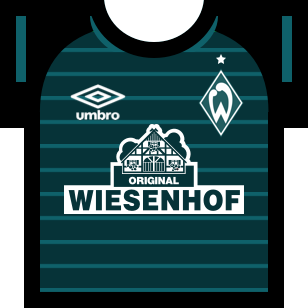
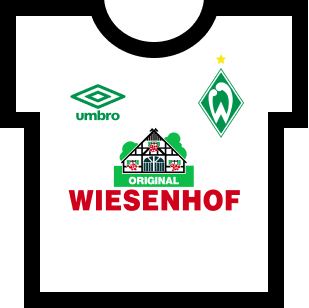
Hoffenheim kits updated to season 20

diff --git a/docs/js/main.min.js b/docs/js/main.min.js
@@ -1,1 +1,1 @@
-function dataFixture(){var e=this,a=[];e.matchesURI="https://api.football-data.org/v2/competitions/2002/matches",e.matchdayURI="https://api.football-data.org/v2/competitions",e.ajax=function(e,a,t){var n={url:e,type:a,accepts:"application/json",cache:!1,dataType:"json",data:JSON.stringify(t),headers:{"X-Auth-Token":"5c8b70988e784fca8186b93d38b1bae7"},error:function(e){console.log("ajax error "+e.status)}};return $.ajax(n)},e.ajax(e.matchdayURI,"GET").done(function(e){var t=e.competitions;for(i=0;i<t.length;i++){const n=t[i];2002==n.id&&a.push(n.currentSeason.currentMatchday)}}),e.ajax(e.matchesURI,"GET").done(function(e){var t=e.matches,n=(new Date,new Date("2018-04-24"),[]),r=a[0];for($(".js-fixture-round").text(r+". Spieltag"),i=0;i<t.length;i++){const s=t[i];s.matchday==r&&n.push(s)}for(console.log(e),i=0;i<n.length;i++){const s=n[i];fixtureItem(s)}})}function dataLadder(){var e=this;e.ajax=function(e,a,t){var n={url:e,type:a,accepts:"application/json",cache:!1,dataType:"json",data:JSON.stringify(t),headers:{"X-Auth-Token":"5c8b70988e784fca8186b93d38b1bae7"},error:function(e){console.log("ajax error "+e.status)}};return $.ajax(n)},e.tasksURI="https://api.football-data.org/v2/competitions/2002/standings",e.ajax(e.tasksURI,"GET").done(function(e){var a=e.standings[0].table;for(console.log(a),i=0;i<a.length;i++){ladderItem(a[i],i+1)}})}function data(){dataFixture(),dataLadder()}function dateTime(e){var a=new Date(e),t=a.getDate();return{day:function(e){var a=e.getDay();return 0==a?"Sonntag":1==a?"Montag":2==a?"Dienstag":3==a?"Mittwoch":4==a?"Donnerstag":5==a?"Freitag":6==a?"Samstag":void 0}(a),month:function(e){var a=e.getMonth();return 0==a?"Jan":1==a?"Feb":2==a?"Mär":3==a?"Apr":4==a?"Mai":5==a?"Jun":6==a?"Jul":7==a?"Aug":8==a?"Sep":9==a?"Okt":10==a?"Nov":11==a?"Dez":void 0}(a),date:t,time:function(e){return e.getHours()+":"+("0"+e.getMinutes()).slice(-2)}(a)}}function fixtureItem(e){var a=dateTime(e.utcDate),t=e.status;"IN_PLAY"==t?$(".js-fixture").before('<div class="c-fixture__game c-fixture__game--in-progress"><div class= "c-fixture__date c-date" ><span class="c-date__day">'+a.day+'</span><span class="c-date__month">'+a.month+'</span><span class="c-date__date">'+a.date+'</span><span class="c-date__time">LIVE</span></div ><div class="c-fixture__team js-fixture-team-1"><img class="js-team-img" src="'+kitImg(e.homeTeam.name,e.awayTeam.name,"Home")+'" /><span class="js-team-text">'+teamAbrev(e.homeTeam.name)[0].name+'</span><span class="c-fixture__score js-score-text">'+e.score.fullTime.homeTeam+'</span></div><div class="c-fixture__vs">vs</div><div class="c-fixture__team js-fixture-team-2"><img class="js-team-img" src="'+kitImg(e.homeTeam.name,e.awayTeam.name,"Away")+'" /><span class="js-team-text">'+teamAbrev(e.awayTeam.name)[0].name+'</span><span class="c-fixture__score js-score-text">'+e.score.fullTime.awayTeam+'</span></div><div class="c-fixture__venue js-fixture-venue"></div></div>'):"PAUSED"==t?$(".js-fixture").before('<div class="c-fixture__game c-fixture__game--in-progress"><div class= "c-fixture__date c-date" ><span class="c-date__day">'+a.day+'</span><span class="c-date__month">'+a.month+'</span><span class="c-date__date">'+a.date+'</span><span class="c-date__time">HT</span></div ><div class="c-fixture__team js-fixture-team-1"><img class="js-team-img" src="'+kitImg(e.homeTeam.name,e.awayTeam.name,"Home")+'" /><span class="js-team-text">'+teamAbrev(e.homeTeam.name)[0].name+'</span><span class="c-fixture__score js-score-text">'+e.score.fullTime.homeTeam+'</span></div><div class="c-fixture__vs">vs</div><div class="c-fixture__team js-fixture-team-2"><img class="js-team-img" src="'+kitImg(e.homeTeam.name,e.awayTeam.name,"Away")+'" /><span class="js-team-text">'+teamAbrev(e.awayTeam.name)[0].name+'</span><span class="c-fixture__score js-score-text">'+e.score.fullTime.awayTeam+'</span></div><div class="c-fixture__venue js-fixture-venue"></div></div>'):"FINISHED"==t?$(".js-fixture").before('<div class="c-fixture__game c-fixture__game--completed"><div class= "c-fixture__date c-date" ><span class="c-date__day">'+a.day+'</span><span class="c-date__month">'+a.month+'</span><span class="c-date__date">'+a.date+'</span><span class="c-date__time">FT</span></div ><div class="c-fixture__team js-fixture-team-1"><img class="js-team-img" src="'+kitImg(e.homeTeam.name,e.awayTeam.name,"Home")+'" /><span class="js-team-text">'+teamAbrev(e.homeTeam.name)[0].name+'</span><span class="c-fixture__score js-score-text">'+e.score.fullTime.homeTeam+'</span></div><div class="c-fixture__vs">vs</div><div class="c-fixture__team js-fixture-team-2"><img class="js-team-img" src="'+kitImg(e.homeTeam.name,e.awayTeam.name,"Away")+'" /><span class="js-team-text">'+teamAbrev(e.awayTeam.name)[0].name+'</span><span class="c-fixture__score js-score-text">'+e.score.fullTime.awayTeam+'</span></div><div class="c-fixture__venue js-fixture-venue"></div></div>'):$(".js-fixture").before('<div class="c-fixture__game"><div class= "c-fixture__date c-date" ><span class="c-date__day">'+a.day+'</span><span class="c-date__month">'+a.month+'</span><span class="c-date__date">'+a.date+'</span><span class="c-date__time">'+a.time+'</span></div ><div class="c-fixture__team js-fixture-team-1"><img class="js-team-img" src="'+kitImg(e.homeTeam.name,e.awayTeam.name,"Home")+'" /><span class="js-team-text">'+teamAbrev(e.homeTeam.name)[0].name+'</span><span class="c-fixture__score js-score-text">-</span></div><div class="c-fixture__vs">vs</div><div class="c-fixture__team js-fixture-team-2"><img class="js-team-img" src="'+kitImg(e.homeTeam.name,e.awayTeam.name,"Away")+'" /><span class="js-team-text">'+teamAbrev(e.awayTeam.name)[0].name+'</span><span class="c-fixture__score js-score-text">-</span></div><div class="c-fixture__venue js-fixture-venue"></div></div>')}function kitImg(e,a,t){if("Home"==t){if("1. FC Nürnberg"==e)return"img/teams/Nuernberg/Home.png";if("1. FSV Mainz 05"==e)return"img/teams/Mainz/Home.png";if("Bayer 04 Leverkusen"==e)return"img/teams/Leverkusen/Home.png";if("BV Borussia 09 Dortmund"==e)return"img/teams/Dortmund/Home.png";if("Borussia Mönchengladbach"==e)return"img/teams/Gladbach/Home.png";if("Eintracht Frankfurt"==e)return"img/teams/Frankfurt/Home.png";if("FC Augsburg"==e)return"img/teams/Augsburg/Home.png";if("FC Bayern München"==e)return"img/teams/Bayern/Home.png";if("FC Schalke 04"==e)return"img/teams/Schalke/Home.png";if("TSV Fortuna 95 Düsseldorf"==e)return"img/teams/Duesseldorf/Home.png";if("Hannover 96"==e)return"img/teams/Hannover/Home.png";if("Hertha BSC"==e)return"img/teams/Hertha/Home.png";if("RB Leipzig"==e)return"img/teams/Leipzig/Home.png";if("SC Freiburg"==e)return"img/teams/Freiburg/Home.png";if("TSG 1899 Hoffenheim"==e)return"img/teams/Hoffenheim/Home.png";if("VfB Stuttgart"==e)return"img/teams/Stuttgart/Home.png";if("VfL Wolfsburg"==e)return"img/teams/Wolfsburg/Home.png";if("SV Werder Bremen"==e)return"img/teams/Bremen/Home.png";if("SC Paderborn 07"==e)return"img/teams/Paderborn/Home.png";if("1. FC Köln"==e)return"img/teams/Koeln/Home.png";if("1. FC Union Berlin"==e)return"img/teams/Union/Home.png"}else if("Away"==t){if("1. FC Nürnberg"==a)return"VfB Stuttgart"==e||"Borussia Mönchengladbach"==e||"FC Augsburg"==e||"RB Leipzig"==e?"img/teams/Nuernberg/Home.png":"img/teams/Nuernberg/Away.png";if("1. FSV Mainz 05"==a)return"FC Schalke 04"==e||"Hertha BSC"==e||"TSG 1899 Hoffenheim"==e?"img/teams/Mainz/Third.png":"img/teams/Mainz/Away.png";if("Bayer 04 Leverkusen"==a)return"VfB Stuttgart"==e||"Borussia Mönchengladbach"==e||"FC Augsburg"==e||"RB Leipzig"==e?"img/teams/Leverkusen/Third.png":"img/teams/Leverkusen/Away.png";if("BV Borussia 09 Dortmund"==a)return"Eintracht Frankfurt"==e||"Bayer Leverkusen"==e?"img/teams/Dortmund/Home.png":"img/teams/Dortmund/Away.png";if("Borussia Mönchengladbach"==a)return"FC Schalke 04"==e||"Hertha BSC"==e||"TSG 1899 Hoffenheim"==e?"img/teams/Gladbach/Home.png":"img/teams/Gladbach/Away.png";if("Eintracht Frankfurt"==a)return"VfB Stuttgart"==e||"Borussia Mönchengladbach"==e||"FC Augsburg"==e||"RB Leipzig"==e?"img/teams/Frankfurt/Third.png":"img/teams/Frankfurt/Away.png";if("FC Augsburg"==a)return"SV Werder Bremen"==e||"VfL Wolfsburg"==e?"img/teams/Augsburg/Third.png":"img/teams/Augsburg/Away.png";if("FC Bayern München"==a)return"VfB Stuttgart"==e||"Borussia Mönchengladbach"==e||"FC Augsburg"==e||"RB Leipzig"==e?"img/teams/Bayern/Home.png":"img/teams/Bayern/Away.png";if("FC Schalke 04"==a)return"VfB Stuttgart"==e||"Borussia Mönchengladbach"==e||"FC Augsburg"==e||"RB Leipzig"==e?"img/teams/Schalke/Home.png":"img/teams/Schalke/Away.png";if("TSV Fortuna 95 Düsseldorf"==a)return"SC Freiburg"==e||"FC Bayern München"==e||"1. FC Nürnberg"==e||"1. FSV Mainz 05"==e||"Hannover 96"==e||"TSV Fortuna 95 Düsseldorf"==e||"1. FC Union Berlin"==e?"img/teams/Duesseldorf/Third.png":"img/teams/Duesseldorf/Away.png";if("Hannover 96"==a)return"Eintracht Frankfurt"==e||"Bayer Leverkusen"==e?"img/teams/Hannover/Third.png":"img/teams/Hannover/Away.png";if("Hertha BSC"==a)return"Eintracht Frankfurt"==e||"Bayer 04 Leverkusen"==e||"SC Freiburg"==e||"FC Bayern München"==e||"1. FC Nürnberg"==e||"1. FSV Mainz 05"==e||"Hannover 96"==e||"TSV Fortuna 95 Düsseldorf"==e||"1. FC Union Berlin"==e?"img/teams/Hertha/Home.png":"img/teams/Hertha/Away.png";if("RB Leipzig"==a)return"Eintracht Frankfurt"==e||"Bayer 04 Leverkusen"==e||"FC Schalke 04"==e||"Hertha BSC"==e||"TSG 1899 Hoffenheim"==e?"img/teams/Leipzig/Home.png":"img/teams/Leipzig/Away.png";if("SC Freiburg"==a)return"Eintracht Frankfurt"==e||"Bayer 04 Leverkusen"==e?"img/teams/Freiburg/Third.png":"img/teams/Freiburg/Away.png";if("TSG 1899 Hoffenheim"==a)return"VfB Stuttgart"==e||"Borussia Mönchengladbach"==e||"FC Augsburg"==e||"RB Leipzig"==e?"img/teams/Hoffenheim/Third.png":"img/teams/Hoffenheim/Away.png";if("VfB Stuttgart"==a)return"SC Freiburg"==e||"FC Bayern München"==e||"1. FC Nürnberg"==e||"1. FSV Mainz 05"==e||"Hannover 96"==e||"TSV Fortuna 95 Düsseldorf"==e?"img/teams/Stuttgart/Third.png":"img/teams/Stuttgart/Away.png";if("VfL Wolfsburg"==a)return"VfB Stuttgart"==e||"Borussia Mönchengladbach"==e||"FC Augsburg"==e||"RB Leipzig"==e?"img/teams/Wolfsburg/Third.png":"img/teams/Wolfsburg/Away.png";if("SV Werder Bremen"==a)return"Eintracht Frankfurt"==e||"Bayer Leverkusen"==e?"img/teams/Bremen/Third.png":"img/teams/Bremen/Away.png";if("SC Paderborn 07"==a)return"VfB Stuttgart"==e||"Borussia Mönchengladbach"==e||"FC Augsburg"==e||"RB Leipzig"==e?"img/teams/Paderborn/Third.png":"img/teams/Paderborn/Away.png";if("1. FC Köln"==a)return"SC Freiburg"==e||"FC Bayern München"==e||"1. FC Nürnberg"==e||"1. FSV Mainz 05"==e||"Hannover 96"==e||"TSV Fortuna 95 Düsseldorf"==e||"1. FC Union Berlin"==e?"img/teams/Koeln/Third.png":"img/teams/Koeln/Away.png";if("1. FC Union Berlin"==a)return"VfB Stuttgart"==e||"Borussia Mönchengladbach"==e||"FC Augsburg"==e||"RB Leipzig"==e?"img/teams/Union/Third.png":"img/teams/Union/Away.png"}}function ladderItem(e,a){$(".c-ladder__item-"+a+" div.c-ladder__team").children("span").text(teamAbrev(e.team.name)[0].name),$(".c-ladder__item-"+a+" div.c-ladder__team").children("img").attr("src",teamImg(e.team.name)),$(".c-ladder__item-"+a+" div.c-ladder__played").text(e.playedGames),$(".c-ladder__item-"+a+" div.c-ladder__wins").text(e.won),$(".c-ladder__item-"+a+" div.c-ladder__losses").text(e.lost),$(".c-ladder__item-"+a+" div.c-ladder__draws").text(e.draw),$(".c-ladder__item-"+a+" div.c-ladder__points-for").text(e.goalsFor),$(".c-ladder__item-"+a+" div.c-ladder__points-against").text(e.goalsAgainst),$(".c-ladder__item-"+a+" div.c-ladder__percentage").text(e.goalDifference),$(".c-ladder__item-"+a+" div.c-ladder__points").text(e.points)}function roundCalc(e){var a=new Date(e),t=a.getMonth(),n=a.getDate(),r=a.getFullYear();return"2018"==r&&t<=7&&n<=27?1:"2018"==r&&7==t&&n<=31||"2018"==r&&8==t&&2==n?2:"2018"==r&&8==t&&n<=16?3:"2018"==r&&8==t&&n<=23?4:"2018"==r&&8==t&&n<=26?5:"2018"==r&&8==t&&n<=30?6:"2018"==r&&9==t&&n<=7?7:"2018"==r&&9==t&&n<=21?8:"2018"==r&&9==t&&n<=28?9:"2018"==r&&9==t&&n<=31||"2018"==r&&10==t&&n<=4?10:"2018"==r&&10==t&&n<=11?11:"2018"==r&&10==t&&n<=25?12:"2018"==r&&10==t&&n<=31||"2018"==r&&11==t&&n<=3?13:"2018"==r&&11==t&&n<=9?14:"2018"==r&&11==t&&n<=16?15:"2018"==r&&11==t&&n<=19?16:"2018"==r&&11==t&&n<=23?17:"2019"==r&&0==t&&n<=20?18:"2019"==r&&0==t&&n<=27?19:"2019"==r&&0==t&&n<=31||"2019"==r&&1==t&&n<=3?20:"2019"==r&&1==t&&n<=10?21:"2019"==r&&1==t&&n<=18?22:"2019"==r&&1==t&&n<=25?23:"2019"==r&&1==t&&n<=25?24:"2019"==r&&1==t&&n<=31||"2019"==r&&1==t?25:"2019"==r&&2==t&&n<=11?26:void 0}function teamAbrev(e){var a=e;return"Eintracht Frankfurt"==a?[{code:"SGE",name:"Frankfurt"}]:"BV Borussia 09 Dortmund"==a?[{code:"BVB",name:"Dortmund"}]:"VfB Stuttgart"==a?[{code:"STU",name:"Stuttgart"}]:"FC Schalke 04"==a?[{code:"S04",name:"Schalke"}]:"1. FC Nürnberg"==a?[{code:"FCN",name:"Nürnberg"}]:"SV Werder Bremen"==a?[{code:"SVW",name:"Bremen"}]:"Hertha BSC"==a?[{code:"BSC",name:"Berlin"}]:"Hannover 96"==a?[{code:"HAN",name:"Hannover"}]:"Borussia Mönchengladbach"==a?[{code:"BMG",name:"Gladbach"}]:"FC Bayern München"==a?[{code:"MUN",name:"Bayern"}]:"TSV Fortuna 95 Düsseldorf"==a?[{code:"DUS",name:"Düsseldorf"}]:"Bayer 04 Leverkusen"==a?[{code:"B04",name:"Leverkusen"}]:"SC Freiburg"==a?[{code:"SCF",name:"Freiburg"}]:"VfL Wolfsburg"==a?[{code:"WOB",name:"Wolfsburg"}]:"1. FSV Mainz 05"==a?[{code:"MAI",name:"Mainz"}]:"TSG 1899 Hoffenheim"==a?[{code:"TSG",name:"Hoffenheim"}]:"FC Augsburg"==a?[{code:"AUG",name:"Augsburg"}]:"RB Leipzig"==a?[{code:"RBL",name:"Leipzig"}]:"SC Paderborn 07"==a?[{code:"PAD",name:"Paderborn"}]:"1. FC Köln"==a?[{code:"KLN",name:"Köln"}]:"1. FC Union Berlin"==a?[{code:"UNB",name:"Union"}]:void 0}function teamImg(e){return"1. FC Nürnberg"==e?"img/teams/Nuernberg/Logo.png":"1. FSV Mainz 05"==e?"img/teams/Mainz/Logo.png":"Bayer 04 Leverkusen"==e?"img/teams/Leverkusen/Logo.png":"BV Borussia 09 Dortmund"==e?"img/teams/Dortmund/Logo.png":"Borussia Mönchengladbach"==e?"img/teams/Gladbach/Logo.png":"Eintracht Frankfurt"==e?"img/teams/Frankfurt/Logo.png":"FC Augsburg"==e?"img/teams/Augsburg/Logo.png":"FC Bayern München"==e?"img/teams/Bayern/Logo.png":"FC Schalke 04"==e?"img/teams/Schalke/Logo.png":"TSV Fortuna 95 Düsseldorf"==e?"img/teams/Duesseldorf/Logo.png":"Hannover 96"==e?"img/teams/Hannover/Logo.png":"Hertha BSC"==e?"img/teams/Hertha/Logo.png":"RB Leipzig"==e?"img/teams/Leipzig/Logo.png":"SC Freiburg"==e?"img/teams/Freiburg/Logo.png":"TSG 1899 Hoffenheim"==e?"img/teams/Hoffenheim/Logo.png":"VfB Stuttgart"==e?"img/teams/Stuttgart/Logo.png":"VfL Wolfsburg"==e?"img/teams/Wolfsburg/Logo.png":"SV Werder Bremen"==e?"img/teams/Bremen/Logo.png":"SC Paderborn 07"==e?"img/teams/Paderborn/Logo.png":"1. FC Köln"==e?"img/teams/Koeln/Logo.png":"1. FC Union Berlin"==e?"img/teams/Union/Logo.png":void 0}function vertCenter(e,a){var t=e.parent().height();e.css({height:t+"px","line-height":t+"px"}),e.children(a).css({height:e.children(a).height(),"padding-top":(t-e.children(a).height())/2+"px","padding-bottom":(t-e.children(a).height())/2+"px"})}function clearStyles(e,a){e.attr("style",""),a.attr("style","")}data(),$(window).on("resize",function(){});
+function dataFixture(){var e=this,a=[];e.matchesURI="https://api.football-data.org/v2/competitions/2002/matches",e.matchdayURI="https://api.football-data.org/v2/competitions",e.ajax=function(e,a,t){var n={url:e,type:a,accepts:"application/json",cache:!1,dataType:"json",data:JSON.stringify(t),headers:{"X-Auth-Token":"5c8b70988e784fca8186b93d38b1bae7"},error:function(e){console.log("ajax error "+e.status)}};return $.ajax(n)},e.ajax(e.matchdayURI,"GET").done(function(e){var t=e.competitions;for(i=0;i<t.length;i++){const n=t[i];2002==n.id&&a.push(n.currentSeason.currentMatchday)}}),e.ajax(e.matchesURI,"GET").done(function(e){var t=e.matches,n=(new Date,new Date("2018-04-24"),[]),r=a[0];for($(".js-fixture-round").text(r+". Spieltag"),i=0;i<t.length;i++){const s=t[i];s.matchday==r&&n.push(s)}for(console.log(e),i=0;i<n.length;i++){const s=n[i];fixtureItem(s)}})}function dataLadder(){var e=this;e.ajax=function(e,a,t){var n={url:e,type:a,accepts:"application/json",cache:!1,dataType:"json",data:JSON.stringify(t),headers:{"X-Auth-Token":"5c8b70988e784fca8186b93d38b1bae7"},error:function(e){console.log("ajax error "+e.status)}};return $.ajax(n)},e.tasksURI="https://api.football-data.org/v2/competitions/2002/standings",e.ajax(e.tasksURI,"GET").done(function(e){var a=e.standings[0].table;for(console.log(a),i=0;i<a.length;i++){ladderItem(a[i],i+1)}})}function data(){dataFixture(),dataLadder()}function dateTime(e){var a=new Date(e),t=a.getDate();return{day:function(e){var a=e.getDay();return 0==a?"Sonntag":1==a?"Montag":2==a?"Dienstag":3==a?"Mittwoch":4==a?"Donnerstag":5==a?"Freitag":6==a?"Samstag":void 0}(a),month:function(e){var a=e.getMonth();return 0==a?"Jan":1==a?"Feb":2==a?"Mär":3==a?"Apr":4==a?"Mai":5==a?"Jun":6==a?"Jul":7==a?"Aug":8==a?"Sep":9==a?"Okt":10==a?"Nov":11==a?"Dez":void 0}(a),date:t,time:function(e){return e.getHours()+":"+("0"+e.getMinutes()).slice(-2)}(a)}}function fixtureItem(e){var a=dateTime(e.utcDate),t=e.status;"IN_PLAY"==t?$(".js-fixture").before('<div class="c-fixture__game c-fixture__game--in-progress"><div class= "c-fixture__date c-date" ><span class="c-date__day">'+a.day+'</span><span class="c-date__month">'+a.month+'</span><span class="c-date__date">'+a.date+'</span><span class="c-date__time">LIVE</span></div ><div class="c-fixture__team js-fixture-team-1"><img class="js-team-img" src="'+kitImg(e.homeTeam.name,e.awayTeam.name,"Home")+'" /><span class="js-team-text">'+teamAbrev(e.homeTeam.name)[0].name+'</span><span class="c-fixture__score js-score-text">'+e.score.fullTime.homeTeam+'</span></div><div class="c-fixture__vs">vs</div><div class="c-fixture__team js-fixture-team-2"><img class="js-team-img" src="'+kitImg(e.homeTeam.name,e.awayTeam.name,"Away")+'" /><span class="js-team-text">'+teamAbrev(e.awayTeam.name)[0].name+'</span><span class="c-fixture__score js-score-text">'+e.score.fullTime.awayTeam+'</span></div><div class="c-fixture__venue js-fixture-venue"></div></div>'):"PAUSED"==t?$(".js-fixture").before('<div class="c-fixture__game c-fixture__game--in-progress"><div class= "c-fixture__date c-date" ><span class="c-date__day">'+a.day+'</span><span class="c-date__month">'+a.month+'</span><span class="c-date__date">'+a.date+'</span><span class="c-date__time">HT</span></div ><div class="c-fixture__team js-fixture-team-1"><img class="js-team-img" src="'+kitImg(e.homeTeam.name,e.awayTeam.name,"Home")+'" /><span class="js-team-text">'+teamAbrev(e.homeTeam.name)[0].name+'</span><span class="c-fixture__score js-score-text">'+e.score.fullTime.homeTeam+'</span></div><div class="c-fixture__vs">vs</div><div class="c-fixture__team js-fixture-team-2"><img class="js-team-img" src="'+kitImg(e.homeTeam.name,e.awayTeam.name,"Away")+'" /><span class="js-team-text">'+teamAbrev(e.awayTeam.name)[0].name+'</span><span class="c-fixture__score js-score-text">'+e.score.fullTime.awayTeam+'</span></div><div class="c-fixture__venue js-fixture-venue"></div></div>'):"FINISHED"==t?$(".js-fixture").before('<div class="c-fixture__game c-fixture__game--completed"><div class= "c-fixture__date c-date" ><span class="c-date__day">'+a.day+'</span><span class="c-date__month">'+a.month+'</span><span class="c-date__date">'+a.date+'</span><span class="c-date__time">FT</span></div ><div class="c-fixture__team js-fixture-team-1"><img class="js-team-img" src="'+kitImg(e.homeTeam.name,e.awayTeam.name,"Home")+'" /><span class="js-team-text">'+teamAbrev(e.homeTeam.name)[0].name+'</span><span class="c-fixture__score js-score-text">'+e.score.fullTime.homeTeam+'</span></div><div class="c-fixture__vs">vs</div><div class="c-fixture__team js-fixture-team-2"><img class="js-team-img" src="'+kitImg(e.homeTeam.name,e.awayTeam.name,"Away")+'" /><span class="js-team-text">'+teamAbrev(e.awayTeam.name)[0].name+'</span><span class="c-fixture__score js-score-text">'+e.score.fullTime.awayTeam+'</span></div><div class="c-fixture__venue js-fixture-venue"></div></div>'):$(".js-fixture").before('<div class="c-fixture__game"><div class= "c-fixture__date c-date" ><span class="c-date__day">'+a.day+'</span><span class="c-date__month">'+a.month+'</span><span class="c-date__date">'+a.date+'</span><span class="c-date__time">'+a.time+'</span></div ><div class="c-fixture__team js-fixture-team-1"><img class="js-team-img" src="'+kitImg(e.homeTeam.name,e.awayTeam.name,"Home")+'" /><span class="js-team-text">'+teamAbrev(e.homeTeam.name)[0].name+'</span><span class="c-fixture__score js-score-text">-</span></div><div class="c-fixture__vs">vs</div><div class="c-fixture__team js-fixture-team-2"><img class="js-team-img" src="'+kitImg(e.homeTeam.name,e.awayTeam.name,"Away")+'" /><span class="js-team-text">'+teamAbrev(e.awayTeam.name)[0].name+'</span><span class="c-fixture__score js-score-text">-</span></div><div class="c-fixture__venue js-fixture-venue"></div></div>')}function kitImg(e,a,t){if("Home"==t){if("1. FC Nürnberg"==e)return"img/teams/Nuernberg/Home.png";if("1. FSV Mainz 05"==e)return"img/teams/Mainz/Home.png";if("Bayer 04 Leverkusen"==e)return"img/teams/Leverkusen/Home.png";if("BV Borussia 09 Dortmund"==e)return"img/teams/Dortmund/Home.png";if("Borussia Mönchengladbach"==e)return"img/teams/Gladbach/Home.png";if("Eintracht Frankfurt"==e)return"img/teams/Frankfurt/Home.png";if("FC Augsburg"==e)return"img/teams/Augsburg/Home.png";if("FC Bayern München"==e)return"img/teams/Bayern/Home.png";if("FC Schalke 04"==e)return"img/teams/Schalke/Home.png";if("TSV Fortuna 95 Düsseldorf"==e)return"img/teams/Duesseldorf/Home.png";if("Hannover 96"==e)return"img/teams/Hannover/Home.png";if("Hertha BSC"==e)return"img/teams/Hertha/Home.png";if("RB Leipzig"==e)return"img/teams/Leipzig/Home.png";if("SC Freiburg"==e)return"img/teams/Freiburg/Home.png";if("TSG 1899 Hoffenheim"==e)return"img/teams/Hoffenheim/Home.png";if("VfB Stuttgart"==e)return"img/teams/Stuttgart/Home.png";if("VfL Wolfsburg"==e)return"img/teams/Wolfsburg/Home.png";if("SV Werder Bremen"==e)return"img/teams/Bremen/Home.png";if("SC Paderborn 07"==e)return"img/teams/Paderborn/Home.png";if("1. FC Köln"==e)return"img/teams/Koeln/Home.png";if("1. FC Union Berlin"==e)return"img/teams/Union/Home.png"}else if("Away"==t){if("1. FC Nürnberg"==a)return"VfB Stuttgart"==e||"Borussia Mönchengladbach"==e||"FC Augsburg"==e||"RB Leipzig"==e?"img/teams/Nuernberg/Home.png":"img/teams/Nuernberg/Away.png";if("1. FSV Mainz 05"==a)return"FC Schalke 04"==e||"Hertha BSC"==e||"TSG 1899 Hoffenheim"==e?"img/teams/Mainz/Third.png":"img/teams/Mainz/Away.png";if("Bayer 04 Leverkusen"==a)return"VfB Stuttgart"==e||"Borussia Mönchengladbach"==e||"FC Augsburg"==e||"RB Leipzig"==e?"img/teams/Leverkusen/Third.png":"img/teams/Leverkusen/Away.png";if("BV Borussia 09 Dortmund"==a)return"Eintracht Frankfurt"==e||"Bayer Leverkusen"==e?"img/teams/Dortmund/Home.png":"img/teams/Dortmund/Away.png";if("Borussia Mönchengladbach"==a)return"FC Schalke 04"==e||"Hertha BSC"==e||"TSG 1899 Hoffenheim"==e?"img/teams/Gladbach/Home.png":"img/teams/Gladbach/Away.png";if("Eintracht Frankfurt"==a)return"VfB Stuttgart"==e||"Borussia Mönchengladbach"==e||"FC Augsburg"==e||"RB Leipzig"==e?"img/teams/Frankfurt/Third.png":"img/teams/Frankfurt/Away.png";if("FC Augsburg"==a)return"SV Werder Bremen"==e||"VfL Wolfsburg"==e?"img/teams/Augsburg/Third.png":"img/teams/Augsburg/Away.png";if("FC Bayern München"==a)return"VfB Stuttgart"==e||"Borussia Mönchengladbach"==e||"FC Augsburg"==e||"RB Leipzig"==e?"img/teams/Bayern/Home.png":"img/teams/Bayern/Away.png";if("FC Schalke 04"==a)return"VfB Stuttgart"==e||"Borussia Mönchengladbach"==e||"FC Augsburg"==e||"RB Leipzig"==e?"img/teams/Schalke/Home.png":"img/teams/Schalke/Away.png";if("TSV Fortuna 95 Düsseldorf"==a)return"SC Freiburg"==e||"FC Bayern München"==e||"1. FC Nürnberg"==e||"1. FSV Mainz 05"==e||"Hannover 96"==e||"TSV Fortuna 95 Düsseldorf"==e||"1. FC Union Berlin"==e?"img/teams/Duesseldorf/Third.png":"img/teams/Duesseldorf/Away.png";if("Hannover 96"==a)return"Eintracht Frankfurt"==e||"Bayer Leverkusen"==e?"img/teams/Hannover/Third.png":"img/teams/Hannover/Away.png";if("Hertha BSC"==a)return"Eintracht Frankfurt"==e||"Bayer 04 Leverkusen"==e||"SC Freiburg"==e||"FC Bayern München"==e||"1. FC Nürnberg"==e||"1. FSV Mainz 05"==e||"Hannover 96"==e||"TSV Fortuna 95 Düsseldorf"==e||"1. FC Union Berlin"==e?"img/teams/Hertha/Home.png":"img/teams/Hertha/Away.png";if("RB Leipzig"==a)return"Eintracht Frankfurt"==e||"Bayer 04 Leverkusen"==e||"FC Schalke 04"==e||"Hertha BSC"==e||"TSG 1899 Hoffenheim"==e?"img/teams/Leipzig/Home.png":"img/teams/Leipzig/Away.png";if("SC Freiburg"==a)return"Eintracht Frankfurt"==e||"Bayer 04 Leverkusen"==e?"img/teams/Freiburg/Third.png":"img/teams/Freiburg/Away.png";if("TSG 1899 Hoffenheim"==a)return"VfB Stuttgart"==e||"Borussia Mönchengladbach"==e||"FC Augsburg"==e||"RB Leipzig"==e?"img/teams/Hoffenheim/Third.png":"img/teams/Hoffenheim/Away.png";if("VfB Stuttgart"==a)return"SC Freiburg"==e||"FC Bayern München"==e||"1. FC Nürnberg"==e||"1. FSV Mainz 05"==e||"Hannover 96"==e||"TSV Fortuna 95 Düsseldorf"==e?"img/teams/Stuttgart/Third.png":"img/teams/Stuttgart/Away.png";if("VfL Wolfsburg"==a)return"VfB Stuttgart"==e||"Borussia Mönchengladbach"==e||"FC Augsburg"==e||"RB Leipzig"==e?"img/teams/Wolfsburg/Third.png":"img/teams/Wolfsburg/Away.png";if("SV Werder Bremen"==a)return"VfB Stuttgart"==e||"Borussia Mönchengladbach"==e||"FC Augsburg"==e||"RB Leipzig"==e?"img/teams/Bremen/Home.png":"img/teams/Bremen/Away.png";if("SC Paderborn 07"==a)return"VfB Stuttgart"==e||"Borussia Mönchengladbach"==e||"FC Augsburg"==e||"RB Leipzig"==e?"img/teams/Paderborn/Third.png":"img/teams/Paderborn/Away.png";if("1. FC Köln"==a)return"SC Freiburg"==e||"FC Bayern München"==e||"1. FC Nürnberg"==e||"1. FSV Mainz 05"==e||"Hannover 96"==e||"TSV Fortuna 95 Düsseldorf"==e||"1. FC Union Berlin"==e?"img/teams/Koeln/Third.png":"img/teams/Koeln/Away.png";if("1. FC Union Berlin"==a)return"VfB Stuttgart"==e||"Borussia Mönchengladbach"==e||"FC Augsburg"==e||"RB Leipzig"==e?"img/teams/Union/Third.png":"img/teams/Union/Away.png"}}function ladderItem(e,a){$(".c-ladder__item-"+a+" div.c-ladder__team").children("span").text(teamAbrev(e.team.name)[0].name),$(".c-ladder__item-"+a+" div.c-ladder__team").children("img").attr("src",teamImg(e.team.name)),$(".c-ladder__item-"+a+" div.c-ladder__played").text(e.playedGames),$(".c-ladder__item-"+a+" div.c-ladder__wins").text(e.won),$(".c-ladder__item-"+a+" div.c-ladder__losses").text(e.lost),$(".c-ladder__item-"+a+" div.c-ladder__draws").text(e.draw),$(".c-ladder__item-"+a+" div.c-ladder__points-for").text(e.goalsFor),$(".c-ladder__item-"+a+" div.c-ladder__points-against").text(e.goalsAgainst),$(".c-ladder__item-"+a+" div.c-ladder__percentage").text(e.goalDifference),$(".c-ladder__item-"+a+" div.c-ladder__points").text(e.points)}function roundCalc(e){var a=new Date(e),t=a.getMonth(),n=a.getDate(),r=a.getFullYear();return"2018"==r&&t<=7&&n<=27?1:"2018"==r&&7==t&&n<=31||"2018"==r&&8==t&&2==n?2:"2018"==r&&8==t&&n<=16?3:"2018"==r&&8==t&&n<=23?4:"2018"==r&&8==t&&n<=26?5:"2018"==r&&8==t&&n<=30?6:"2018"==r&&9==t&&n<=7?7:"2018"==r&&9==t&&n<=21?8:"2018"==r&&9==t&&n<=28?9:"2018"==r&&9==t&&n<=31||"2018"==r&&10==t&&n<=4?10:"2018"==r&&10==t&&n<=11?11:"2018"==r&&10==t&&n<=25?12:"2018"==r&&10==t&&n<=31||"2018"==r&&11==t&&n<=3?13:"2018"==r&&11==t&&n<=9?14:"2018"==r&&11==t&&n<=16?15:"2018"==r&&11==t&&n<=19?16:"2018"==r&&11==t&&n<=23?17:"2019"==r&&0==t&&n<=20?18:"2019"==r&&0==t&&n<=27?19:"2019"==r&&0==t&&n<=31||"2019"==r&&1==t&&n<=3?20:"2019"==r&&1==t&&n<=10?21:"2019"==r&&1==t&&n<=18?22:"2019"==r&&1==t&&n<=25?23:"2019"==r&&1==t&&n<=25?24:"2019"==r&&1==t&&n<=31||"2019"==r&&1==t?25:"2019"==r&&2==t&&n<=11?26:void 0}function teamAbrev(e){var a=e;return"Eintracht Frankfurt"==a?[{code:"SGE",name:"Frankfurt"}]:"BV Borussia 09 Dortmund"==a?[{code:"BVB",name:"Dortmund"}]:"VfB Stuttgart"==a?[{code:"STU",name:"Stuttgart"}]:"FC Schalke 04"==a?[{code:"S04",name:"Schalke"}]:"1. FC Nürnberg"==a?[{code:"FCN",name:"Nürnberg"}]:"SV Werder Bremen"==a?[{code:"SVW",name:"Bremen"}]:"Hertha BSC"==a?[{code:"BSC",name:"Berlin"}]:"Hannover 96"==a?[{code:"HAN",name:"Hannover"}]:"Borussia Mönchengladbach"==a?[{code:"BMG",name:"Gladbach"}]:"FC Bayern München"==a?[{code:"MUN",name:"Bayern"}]:"TSV Fortuna 95 Düsseldorf"==a?[{code:"DUS",name:"Düsseldorf"}]:"Bayer 04 Leverkusen"==a?[{code:"B04",name:"Leverkusen"}]:"SC Freiburg"==a?[{code:"SCF",name:"Freiburg"}]:"VfL Wolfsburg"==a?[{code:"WOB",name:"Wolfsburg"}]:"1. FSV Mainz 05"==a?[{code:"MAI",name:"Mainz"}]:"TSG 1899 Hoffenheim"==a?[{code:"TSG",name:"Hoffenheim"}]:"FC Augsburg"==a?[{code:"AUG",name:"Augsburg"}]:"RB Leipzig"==a?[{code:"RBL",name:"Leipzig"}]:"SC Paderborn 07"==a?[{code:"PAD",name:"Paderborn"}]:"1. FC Köln"==a?[{code:"KLN",name:"Köln"}]:"1. FC Union Berlin"==a?[{code:"UNB",name:"Union"}]:void 0}function teamImg(e){return"1. FC Nürnberg"==e?"img/teams/Nuernberg/Logo.png":"1. FSV Mainz 05"==e?"img/teams/Mainz/Logo.png":"Bayer 04 Leverkusen"==e?"img/teams/Leverkusen/Logo.png":"BV Borussia 09 Dortmund"==e?"img/teams/Dortmund/Logo.png":"Borussia Mönchengladbach"==e?"img/teams/Gladbach/Logo.png":"Eintracht Frankfurt"==e?"img/teams/Frankfurt/Logo.png":"FC Augsburg"==e?"img/teams/Augsburg/Logo.png":"FC Bayern München"==e?"img/teams/Bayern/Logo.png":"FC Schalke 04"==e?"img/teams/Schalke/Logo.png":"TSV Fortuna 95 Düsseldorf"==e?"img/teams/Duesseldorf/Logo.png":"Hannover 96"==e?"img/teams/Hannover/Logo.png":"Hertha BSC"==e?"img/teams/Hertha/Logo.png":"RB Leipzig"==e?"img/teams/Leipzig/Logo.png":"SC Freiburg"==e?"img/teams/Freiburg/Logo.png":"TSG 1899 Hoffenheim"==e?"img/teams/Hoffenheim/Logo.png":"VfB Stuttgart"==e?"img/teams/Stuttgart/Logo.png":"VfL Wolfsburg"==e?"img/teams/Wolfsburg/Logo.png":"SV Werder Bremen"==e?"img/teams/Bremen/Logo.png":"SC Paderborn 07"==e?"img/teams/Paderborn/Logo.png":"1. FC Köln"==e?"img/teams/Koeln/Logo.png":"1. FC Union Berlin"==e?"img/teams/Union/Logo.png":void 0}function vertCenter(e,a){var t=e.parent().height();e.css({height:t+"px","line-height":t+"px"}),e.children(a).css({height:e.children(a).height(),"padding-top":(t-e.children(a).height())/2+"px","padding-bottom":(t-e.children(a).height())/2+"px"})}function clearStyles(e,a){e.attr("style",""),a.attr("style","")}data(),$(window).on("resize",function(){});

diff --git a/app/js/main.js b/app/js/main.js
@@ -485,7 +485,7 @@ function kitImg(homename,awayname,location){
                 return 'img/teams/Freiburg/Away.png';
             }
 
-        // TSG 1899 Hoffenheim - White
+        // TSG 1899 Hoffenheim - Light Green
         } else if (awayname == "TSG 1899 Hoffenheim") {
             if (homename == "VfB Stuttgart" || homename == "Borussia Mönchengladbach" || homename == "FC Augsburg" || homename == "RB Leipzig") {
                 return 'img/teams/Hoffenheim/Third.png';
@@ -509,10 +509,10 @@ function kitImg(homename,awayname,location){
                 return 'img/teams/Wolfsburg/Away.png';
             }
 
-        // Werder Bremen - Black
+        // Werder Bremen - White
         } else if (awayname == "SV Werder Bremen") {
-            if (homename == "Eintracht Frankfurt" || homename == "Bayer Leverkusen") {
-                return 'img/teams/Bremen/Third.png';
+            if (homename == "VfB Stuttgart" || homename == "Borussia Mönchengladbach" || homename == "FC Augsburg" || homename == "RB Leipzig") {
+                return 'img/teams/Bremen/Home.png';
             } else {
                 return 'img/teams/Bremen/Away.png';
             }
@@ -826,18 +826,6 @@ function teamImg(team) {
         return 'img/teams/Union/Logo.png';
     }
 }
-
-//
-// UI - Buttons
-// ==========================================================================
-
-// Variables
-// var gitButton = document.getElementById('js-button-github');
-
-// gitButton.addEventListener('click', function(){
-//     window.open('https://github.com/Toshibot/webapp-boilerplate', '_blank');
-// });
-
 //
 // Layout - Vertically Centered
 // ==========================================================================
@@ -890,3 +878,15 @@ $(window).on('resize', function() {
     // clearStyles($('.o-vert-center'), $('.o-vert-center__object'));
     // vertCenter($('.o-vert-center'), '.o-vert-center__object');
 });
+
+
+//
+// UI - Buttons
+// ==========================================================================
+
+// Variables
+// var gitButton = document.getElementById('js-button-github');
+
+// gitButton.addEventListener('click', function(){
+//     window.open('https://github.com/Toshibot/webapp-boilerplate', '_blank');
+// });

diff --git a/app/js/_dev/_functions/_kit-img.js b/app/js/_dev/_functions/_kit-img.js
@@ -181,7 +181,7 @@ function kitImg(homename,awayname,location){
                 return 'img/teams/Freiburg/Away.png';
             }
 
-        // TSG 1899 Hoffenheim - White
+        // TSG 1899 Hoffenheim - Light Green
         } else if (awayname == "TSG 1899 Hoffenheim") {
             if (homename == "VfB Stuttgart" || homename == "Borussia Mönchengladbach" || homename == "FC Augsburg" || homename == "RB Leipzig") {
                 return 'img/teams/Hoffenheim/Third.png';
@@ -205,10 +205,10 @@ function kitImg(homename,awayname,location){
                 return 'img/teams/Wolfsburg/Away.png';
             }
 
-        // Werder Bremen - Black
+        // Werder Bremen - White
         } else if (awayname == "SV Werder Bremen") {
-            if (homename == "Eintracht Frankfurt" || homename == "Bayer Leverkusen") {
-                return 'img/teams/Bremen/Third.png';
+            if (homename == "VfB Stuttgart" || homename == "Borussia Mönchengladbach" || homename == "FC Augsburg" || homename == "RB Leipzig") {
+                return 'img/teams/Bremen/Home.png';
             } else {
                 return 'img/teams/Bremen/Away.png';
             }
